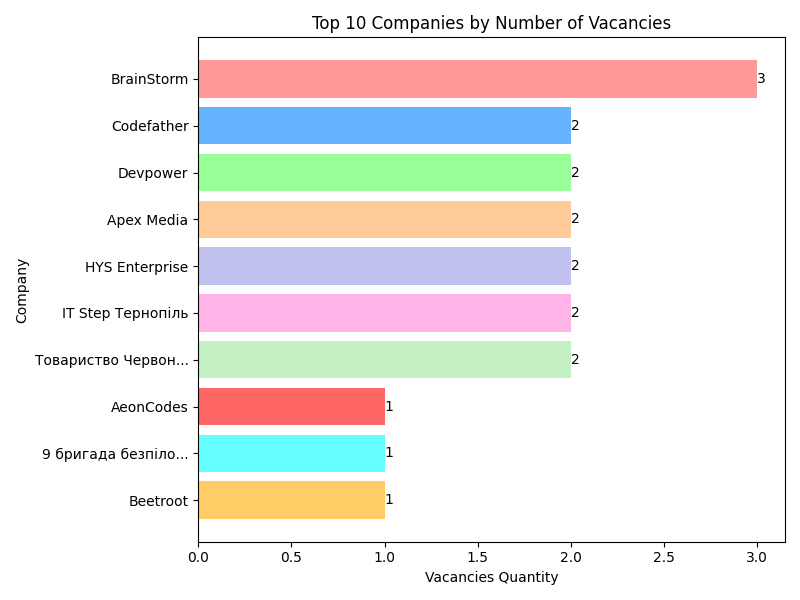
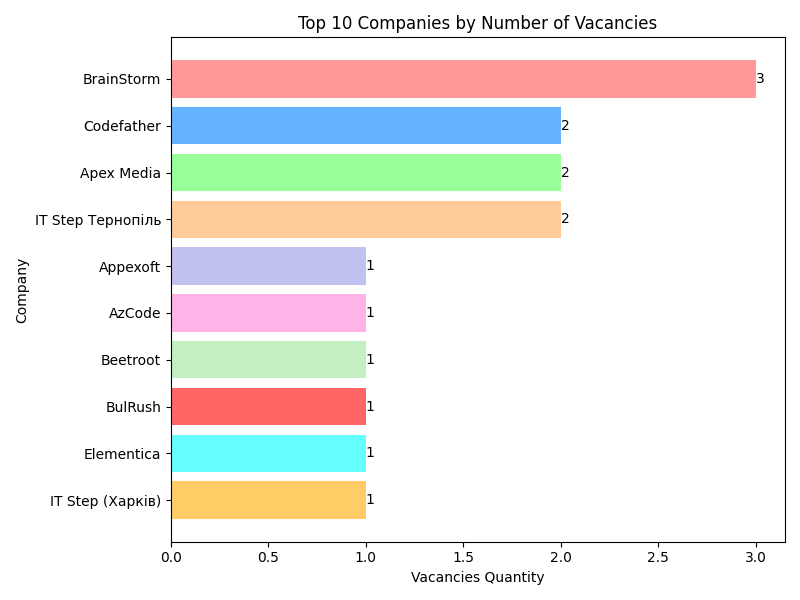
Updated all plot functions with color of graphs, updated graphs themselves, updates data and

diff --git a/analytics/analytics.py b/analytics/analytics.py
@@ -1,142 +1,155 @@
+import numpy as np
 import pandas as pd
 import matplotlib.pyplot as plt
+from matplotlib import cm
 
 from config import PLOTS_DIR
 
 # correlation analysis
-# top companies by quantity of vacancies
 
 def load_data(path: str) -> pd.DataFrame:
     df = pd.read_csv("../data/vacancies.csv")
     return df.dropna(subset=["technologies"]) # we make dataframe without NaN
 
-# # we create a function that converts str in technologies into
-# # a python list with technologies
-# def prepare_technologies(df: pd.DataFrame) -> pd.DataFrame:
-#     def parse_technologies(tech_str: str) -> list[str]:
-#         tech_str = tech_str.strip("[]")     # remove []
-#         tech_str = tech_str.replace("'", "")      # remove quotes
-#         # in return, we are creating a list with these technologies with help of
-#         # list generator
-#         return [t.strip() for t in tech_str.split(",") if t.strip()]
-#
-#     # we convert every line of our technology dataframe
-#     df["technologies"] = df["technologies"].apply(parse_technologies)
-#     # we expand the list in every line into a column
-#     return df.explode("technologies")
-#
-# # we count how many techonlogies we have in vacancies (top 20)
-# # it creates, in a result we get, object Series with index - name of
-# #technology and value counts of these technologies
-# def plot_top_technologies(df: pd.DataFrame):
-#     tech_counts = df["technologies"].value_counts().head(20)
-#
-#     # we create a bar diagram
-#     # we can make it with this shortcut - tech_counts.plot(kind="bar")
-#     # but to make everything crear
-#
-#     fig, ax = plt.subplots()
-#
-#     ax.bar(tech_counts.index, tech_counts.values)
-#
-#     ax.set_title("Top 20 Technologies")
-#     ax.set_xlabel("Technology")
-#     ax.set_ylabel("Count")
-#
-#     ax.tick_params(axis="x", rotation=90)
-#
-#     plt.tight_layout()
-#     plt.savefig(PLOTS_DIR / "top_technologies.png")
-#     plt.show()
-#
-#
-# def plot_vacancies_by_city(df: pd.DataFrame) -> None:
-#     """
-#     Builds the pie diagram and plots the vacancies by city.
-#     """
-#     # We count the quantity of vacancies in every city
-#     city_counts = df["location"].value_counts()
-#
-#     # Create a figure
-#     fig, ax = plt.subplots(figsize=(8, 8))
-#     ax.pie(
-#         city_counts.values,
-#         labels=city_counts.index,
-#         autopct='%1.1f%%',  # result in percents
-#         startangle=90,      # we rotate the pie graph to start from the top
-#         pctdistance=0.85
-#     )
-#     ax.set_title("Vacancies distribution by city")
-#
-#     # Save the graph
-#     plt.savefig(PLOTS_DIR / "vacancies_by_cities.png")
-#     print(f"Saved pie chart to {PLOTS_DIR}")
-#
-#
-# def plot_salary_from_level_dep(df: pd.DataFrame) -> None:
-#     """
-#     Counts average salary depending on the level and plots bar chart
-#     """
-#     # Clean data from NaN
-#     df_clean = df.dropna(subset=["salary", "level"])
-#
-#     # Group by level and calculate average salary
-#     salary_level = df_clean.groupby("level")["salary"].mean()
-#
-#     # Set correct order of levels
-#     order = ["Intern", "Junior", "Middle", "Senior"]
-#     salary_level = salary_level.reindex(order).dropna()
-#
-#     # Build the graph
-#     fig, ax = plt.subplots(figsize=(8, 5))
-#
-#     ax.bar(salary_level.index, salary_level.values)
-#
-#     ax.set_title("Average Salary by Level")
-#     ax.set_xlabel("Level")
-#     ax.set_ylabel("Average salary")
-#
-#     # Add values above bars
-#     for i, v in enumerate(salary_level.values):
-#         ax.text(i, v, f"{int(v)}", ha="center", va="bottom")
-#
-#     plt.tight_layout()
-#     plt.savefig(PLOTS_DIR / "average_salary_by_level.png")
-#
-#     plt.show()
-#
-#
-# def plot_vacancy_from_level(df: pd.DataFrame) -> None:
-#     """
-#     Counts the number of vacancies depending on the level and plots bar chart
-#     """
-#     # Clean data
-#     df_clean = df.dropna(subset=["level", "title"])
-#
-#     # Count vacancies per level
-#     level_vacancies = df_clean.groupby("level")["title"].count()
-#
-#     # Define the order of levels
-#     order = ["Intern", "Junior", "Middle", "Senior"]
-#     level_vacancies = level_vacancies.reindex(order).dropna()
-#
-#     # Build the graph
-#     fig, ax = plt.subplots(figsize=(8, 5))
-#     ax.bar(level_vacancies.index, level_vacancies.values)
-#
-#     ax.set_title("Quantity of Vacancies for Each Level")
-#     ax.set_xlabel("Level")
-#     ax.set_ylabel("Vacancies Quantity")
-#
-#     # Add values above bars
-#     for i, v in enumerate(level_vacancies.values):
-#         ax.text(i, v, f"{int(v)}", ha="center", va="bottom")
-#
-#     plt.tight_layout()
-#     plt.savefig(PLOTS_DIR / "vacancies_quantity_by_level.png")
-#     print(level_vacancies)
-#
-#     plt.show()
+# we create a function that converts str in technologies into
+# a python list with technologies
+def prepare_technologies(df: pd.DataFrame) -> pd.DataFrame:
+    """
+    Prepares the technologies column in the dataframe.
+
+    Parses each string in the 'technologies' column into a list of individual
+    technologies, then explodes the list so that each technology gets its own row.
+
+    """
+    def parse_technologies(tech_str: str) -> list[str]:
+        tech_str = tech_str.strip("[]")     # remove []
+        tech_str = tech_str.replace("'", "")      # remove quotes
+        # in return, we are creating a list with these technologies with help of
+        # list generator
+        return [t.strip() for t in tech_str.split(",") if t.strip()]
+
+    # we convert every line of our technology dataframe
+    df["technologies"] = df["technologies"].apply(parse_technologies)
+    # we expand the list in every line into a column
+    return df.explode("technologies")
+
+# we count how many techonlogies we have in vacancies (top 20)
+# it creates, in a result we get, object Series with index - name of
+#technology and value counts of these technologies
+def plot_top_technologies(df: pd.DataFrame):
+    tech_counts = df["technologies"].value_counts().head(20)
+
+    # we create a bar diagram
+    # we can make it with this shortcut - tech_counts.plot(kind="bar")
+    # but to make everything clear
+
+    fig, ax = plt.subplots()
+
+    # built in palette Greys
+    colors = cm.get_cmap("Greys_r")(np.linspace(0.3, 0.8, len(tech_counts)))
+    ax.bar(tech_counts.index, tech_counts.values, color=colors)
+
+    ax.set_title("Top 20 Technologies")
+    ax.set_xlabel("Technology")
+    ax.set_ylabel("Count")
+
+    ax.tick_params(axis="x", rotation=90)
+
+    plt.tight_layout()
+    plt.savefig(PLOTS_DIR / "top_technologies.png")
+    plt.show()
+
+
+def plot_vacancies_by_city(df: pd.DataFrame) -> None:
+    """
+    Builds the pie diagram and plots the vacancies by city.
+    """
+    # We count the quantity of vacancies in every city
+    city_counts = df["location"].value_counts()
+
+    # Create a figure
+    fig, ax = plt.subplots(figsize=(8, 8))
+    ax.pie(
+        city_counts.values,
+        labels=city_counts.index,
+        autopct='%1.1f%%',  # result in percents
+        startangle=90,      # we rotate the pie graph to start from the top
+        pctdistance=0.85
+    )
+    ax.set_title("Vacancies distribution by city")
+
+    # Save the graph
+    plt.savefig(PLOTS_DIR / "vacancies_by_cities.png")
+    print(f"Saved pie chart to {PLOTS_DIR}")
+
+
+def plot_salary_from_level_dep(df: pd.DataFrame) -> None:
+    """
+    Counts average salary depending on the level and plots bar chart
+    """
+    # Clean data from NaN
+    df_clean = df.dropna(subset=["salary", "level"])
+
+    # Group by level and calculate average salary
+    salary_level = df_clean.groupby("level")["salary"].mean()
+
+    # Set the correct order of levels
+    order = ["Intern", "Junior", "Middle", "Senior"]
+    salary_level = salary_level.reindex(order).dropna()
+
+    # Build the graph
+    fig, ax = plt.subplots(figsize=(8, 5))
+
+    colors = ["#2ca02c", "#ffdd57", "#ff7f0e", "#d62728"]
+
+    ax.bar(salary_level.index, salary_level.values, color=colors)
+
+    ax.set_title("Average Salary by Level")
+    ax.set_xlabel("Level")
+    ax.set_ylabel("Average salary")
+
+    # Add values above bars
+    for i, v in enumerate(salary_level.values):
+        ax.text(i, v, f"{int(v)}", ha="center", va="bottom")
+
+    plt.tight_layout()
+    plt.savefig(PLOTS_DIR / "average_salary_by_level.png")
+
+    plt.show()
+
+
+def plot_vacancy_from_level(df: pd.DataFrame) -> None:
+    """
+    Counts the number of vacancies depending on the level and plots bar chart
+    """
+    # Clean data
+    df_clean = df.dropna(subset=["level", "title"])
+
+    # Count vacancies per level
+    level_vacancies = df_clean.groupby("level")["title"].count()
+
+    # Define the order of levels
+    order = ["Intern", "Junior", "Middle", "Senior"]
+    level_vacancies = level_vacancies.reindex(order).dropna()
+
+    # Build the graph
+    colors = ["#2ca02c", "#ffdd57", "#ff7f0e", "#d62728"]
+    fig, ax = plt.subplots(figsize=(8, 5))
+    ax.bar(level_vacancies.index, level_vacancies.values, color=colors)
+
+    ax.set_title("Quantity of Vacancies for Each Level")
+    ax.set_xlabel("Level")
+    ax.set_ylabel("Vacancies Quantity")
+
+    # Add values above bars
+    for i, v in enumerate(level_vacancies.values):
+        ax.text(i, v, f"{int(v)}", ha="center", va="bottom")
+
+    plt.tight_layout()
+    plt.savefig(PLOTS_DIR / "vacancies_quantity_by_level.png")
+    print(level_vacancies)
+
+    plt.show()
 
 
 def plot_vacancies_top_companies(df: pd.DataFrame) -> None:
@@ -170,7 +183,7 @@ def plot_vacancies_top_companies(df: pd.DataFrame) -> None:
     ax.set_xlabel("Vacancies Quantity")
     ax.set_ylabel("Company")
 
-    # Invert axis → biggest on top (very important!)
+    # Invert axis → the biggest on top (very important!)
     ax.invert_yaxis()
 
     # Add values
@@ -187,15 +200,15 @@ def plot_vacancies_top_companies(df: pd.DataFrame) -> None:
 
 def main():
     df = load_data("../data/vacancies.csv")
-    # df_exploded = prepare_technologies(df)
-    # plot_top_technologies(df_exploded)
-    #
-    # df = df.dropna(subset=["location"])  # we delete all Nan from df
-    # plot_vacancies_by_city(df)
-    #
-    # plot_salary_from_level_dep(df)
-    #
-    # plot_vacancy_from_level(df)
+    df_exploded = prepare_technologies(df)
+    plot_top_technologies(df_exploded)
+
+    df = df.dropna(subset=["location"])  # we delete all Nan from df
+    plot_vacancies_by_city(df)
+
+    plot_salary_from_level_dep(df)
+
+    plot_vacancy_from_level(df)
 
     plot_vacancies_top_companies(df)
 

diff --git a/README.md b/README.md
@@ -13,6 +13,13 @@ Analyze most demanded technologies for Python developers using web scraping and 
 
 <img src="data/plots/top_technologies.png" width="600">
 
+**Insight:**
+
+According to the results of this graph, we can conclude that most of the vacancies  
+are for backend Python developers, since we see in the top 10 technologies such as  
+Django, REST API, FastAPI, Docker, JavaScript, Flask, Redis and PostgreSQL, which  
+are typical for backend developer positions.
+
 ## 📊 Vacancies by City
 
 <img src="data/plots/vacancies_by_cities.png" width="600">
@@ -40,3 +47,9 @@ Data is available for only 22 out of 70 vacancies, as most job postings do not s
 Nevertheless, it shows that the market roughly requires developers across all levels: from Intern to Senior.
 
 ⚠ Note: The data is incomplete, so the chart and table reflect only the available subset of the market.
+
+## Top 10 companies by number of vacancies
+
+<img src="data/plots/top_companies.png" width="600">
+
+**Insight:**
